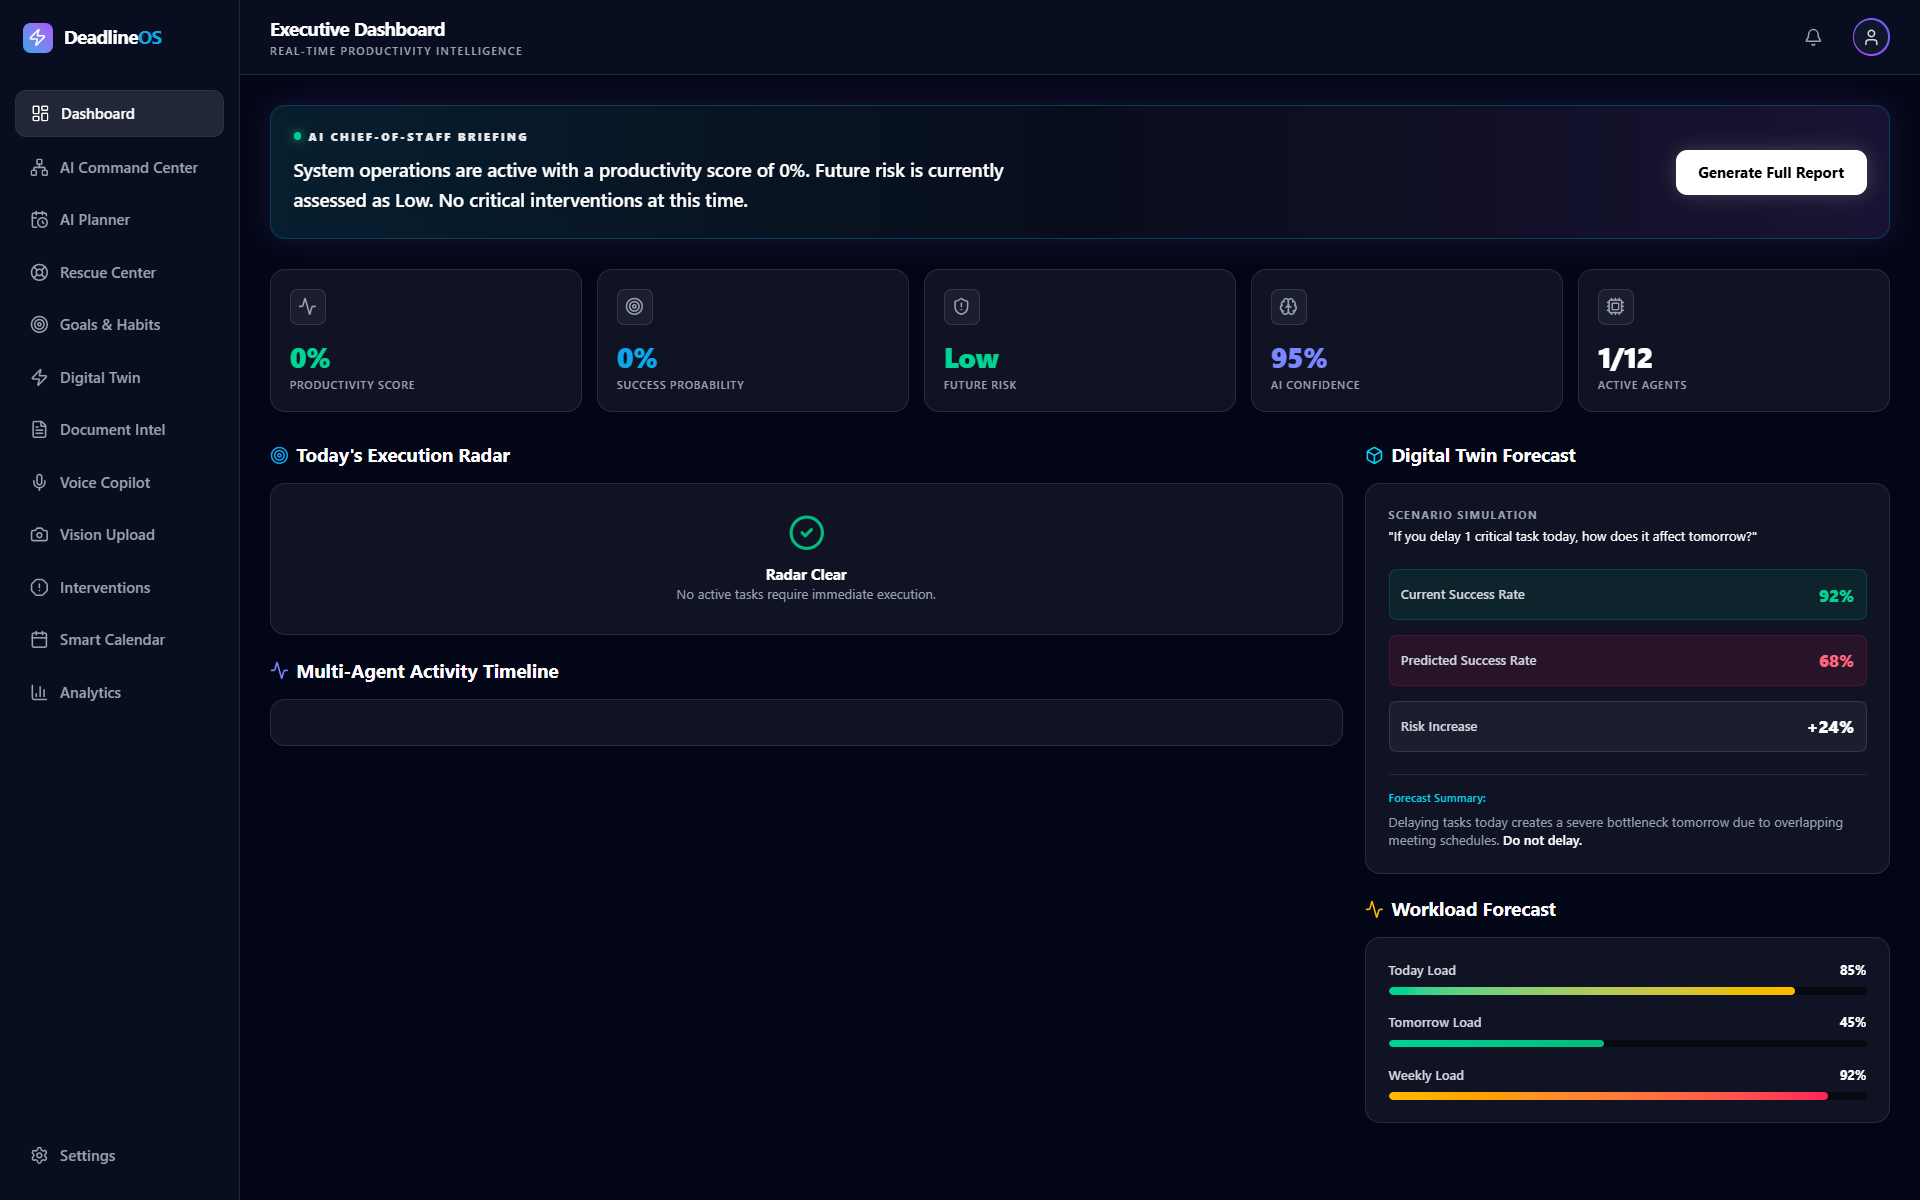
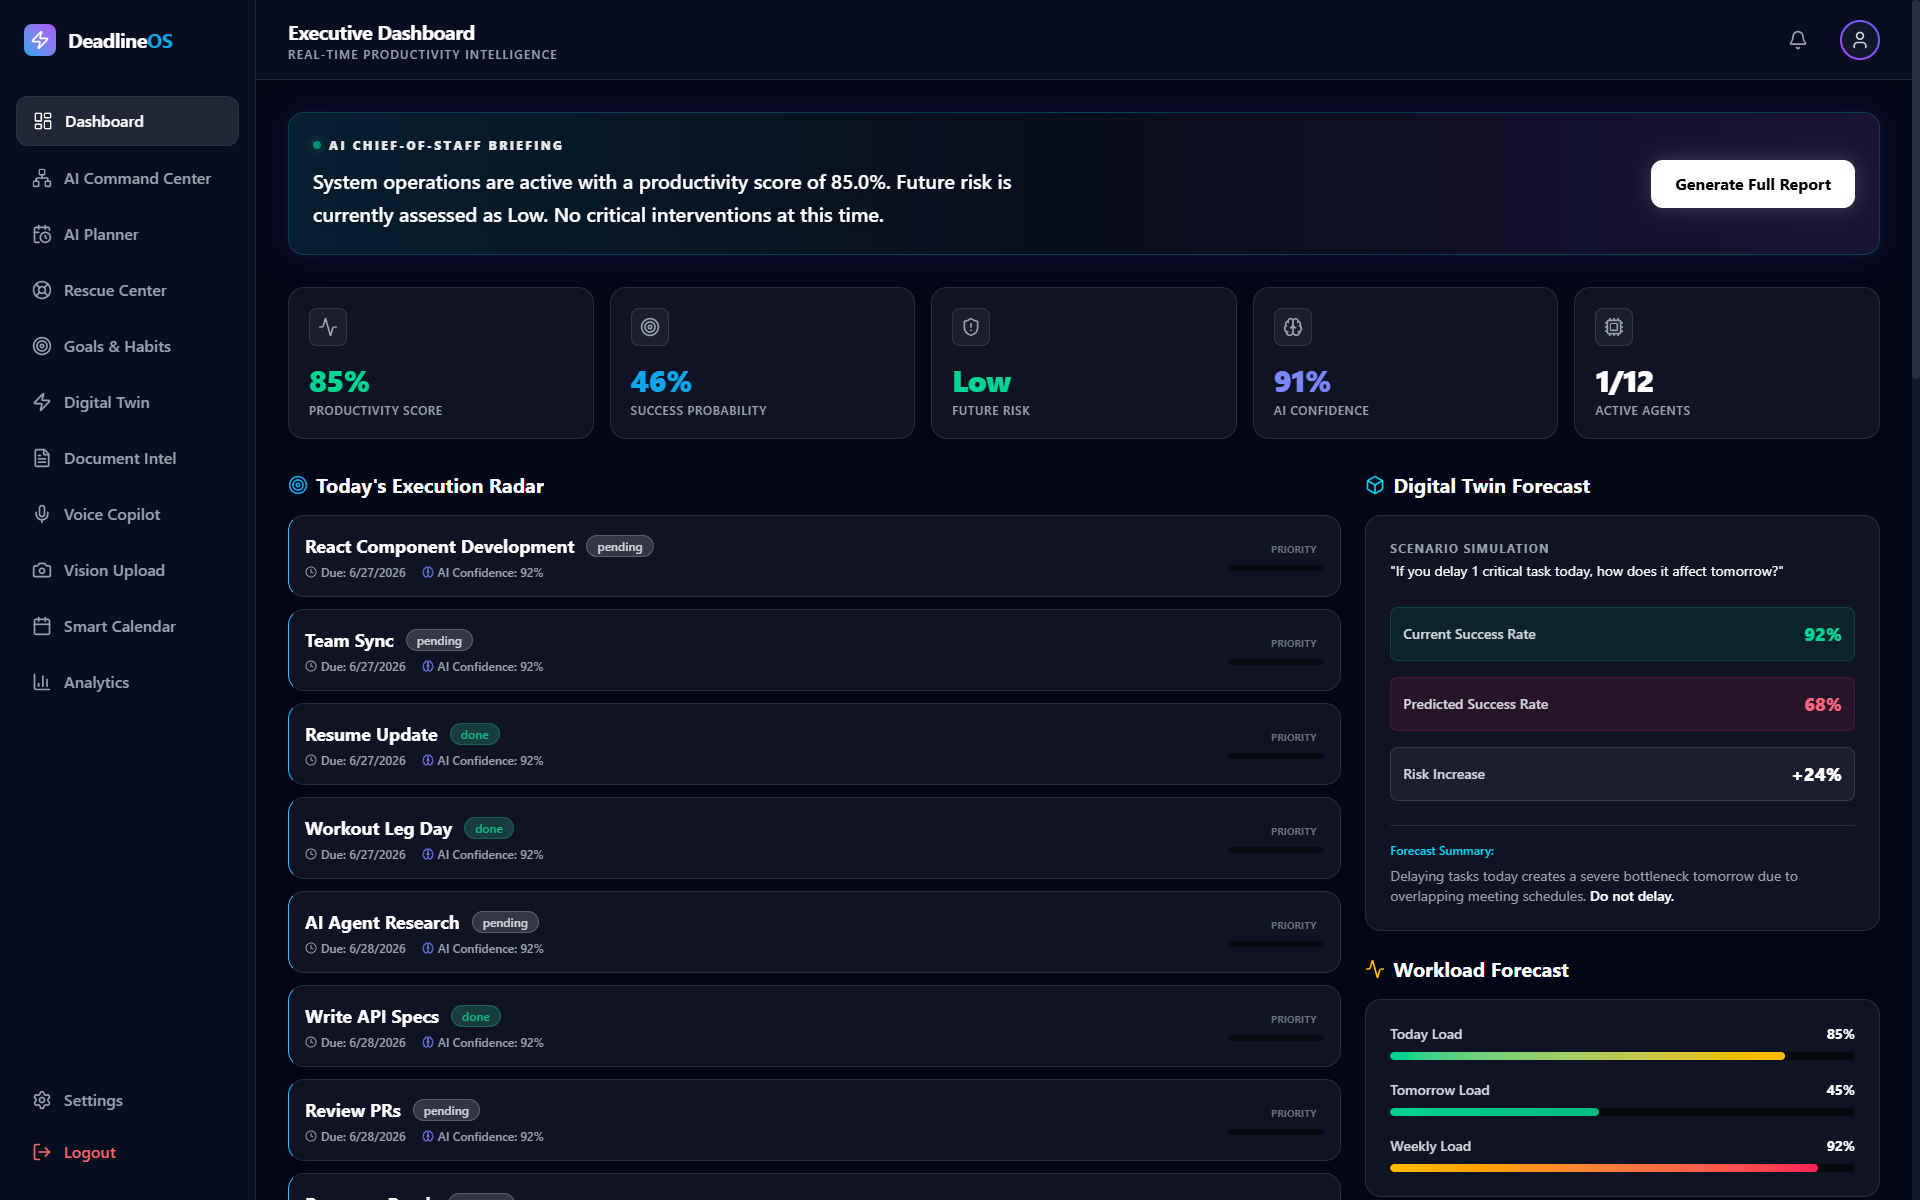
feat: add demo data seeder script and analytics service scaffolding

diff --git a/backend/services/analytics_service.py b/backend/services/analytics_service.py
@@ -54,7 +54,7 @@ class AnalyticsService:
         """Returns time-series data for area/line charts from DB."""
         from flask import g
         uid = user_id or getattr(g, "user_id", None)
-        metrics = AccountabilityMetrics.query.filter_by(user_id=uid).order_by(AccountabilityMetrics.created_at.desc()).limit(7).all()
+        metrics = AccountabilityMetrics.query.filter_by(user_id=uid).order_by(AccountabilityMetrics.created_at.desc()).limit(30).all()
         metrics.reverse()
         return [
             {
@@ -192,37 +192,104 @@ class AnalyticsService:
     @classmethod
     def get_insights(cls, user_id: str = None) -> Dict[str, Any]:
         """Returns telemetry-driven Insights Engine data."""
+        import logging
+        import traceback
         from flask import g
+        
+        logger = logging.getLogger(__name__)
         uid = user_id or getattr(g, "user_id", None)
-        latest_acc = AccountabilityMetrics.query.filter_by(user_id=uid).order_by(AccountabilityMetrics.created_at.desc()).first()
-        top_risk = "N/A"
-        top_opportunity = "N/A"
-        if latest_acc and latest_acc.key_findings:
-            findings = latest_acc.key_findings
-            top_risk = findings[0] if len(findings) > 0 else "N/A"
-            top_opportunity = findings[1] if len(findings) > 1 else "N/A"
+        
+        logger.info(f"[AnalyticsService] Starting get_insights for user_id={uid}")
+        
+        try:
+            logger.info(f"[AnalyticsService] Fetching AccountabilityMetrics for user_id={uid}")
+            latest_acc = AccountabilityMetrics.query.filter_by(user_id=uid).order_by(AccountabilityMetrics.created_at.desc()).first()
             
-        counts = db.session.query(
-            AgentExecutionLog.agent_name, 
-            func.count(AgentExecutionLog.id).label('total'),
-            func.avg(AgentExecutionLog.confidence).label('avg_conf')
-        ).filter_by(user_id=uid).group_by(AgentExecutionLog.agent_name).all()
-        
-        most_used_agent = max(counts, key=lambda x: x.total)[0] if counts else "N/A"
-        most_accurate_agent = max(counts, key=lambda x: x.avg_conf)[0] if counts else "N/A"
-        
-        interventions = Intervention.query.filter_by(user_id=uid, resolved=True).all()
-        least_effective = min(interventions, key=lambda x: x.confidence_score).type if interventions else "N/A"
-        
-        focus = "Review active interventions" if interventions else "Define new goals"
-        if latest_acc and latest_acc.recommendations:
-            focus = latest_acc.recommendations[0]
+            top_risk = "N/A"
+            top_opportunity = "N/A"
+            if latest_acc and latest_acc.key_findings and isinstance(latest_acc.key_findings, list):
+                findings = latest_acc.key_findings
+                top_risk = findings[0] if len(findings) > 0 else "N/A"
+                top_opportunity = findings[1] if len(findings) > 1 else "N/A"
             
-        return {
-            "top_risk": top_risk,
-            "top_opportunity": top_opportunity,
-            "most_used_agent": most_used_agent,
-            "most_accurate_agent": most_accurate_agent,
-            "least_effective_intervention": least_effective,
-            "recommended_focus_area": focus
-        }
+            logger.info(f"[AnalyticsService] Fetching AgentExecutionLog metrics for user_id={uid}")
+            counts = db.session.query(
+                AgentExecutionLog.agent_name, 
+                func.count(AgentExecutionLog.id).label('total'),
+                func.avg(AgentExecutionLog.confidence).label('avg_conf')
+            ).filter_by(user_id=uid).group_by(AgentExecutionLog.agent_name).all()
+            
+            most_used_agent = "N/A"
+            most_accurate_agent = "N/A"
+            
+            if counts:
+                # Safe aggregation avoiding None comparisons
+                most_used = max(counts, key=lambda x: x.total if x.total is not None else 0)
+                most_used_agent = most_used.agent_name if most_used.total else "N/A"
+                
+                most_accurate = max(counts, key=lambda x: x.avg_conf if x.avg_conf is not None else 0)
+                most_accurate_agent = most_accurate.agent_name if most_accurate.avg_conf else "N/A"
+            
+            logger.info(f"[AnalyticsService] Fetching Interventions for user_id={uid}")
+            interventions = Intervention.query.filter_by(user_id=uid, resolved=True).all()
+            least_effective = "N/A"
+            
+            if interventions:
+                # Filter out None scores before taking min
+                valid_interventions = [i for i in interventions if i.confidence_score is not None]
+                if valid_interventions:
+                    least_effective_intervention = min(valid_interventions, key=lambda x: x.confidence_score)
+                    least_effective = least_effective_intervention.type or "N/A"
+            
+            focus = "Review active interventions" if interventions else "Define new goals"
+            if latest_acc and latest_acc.recommendations and isinstance(latest_acc.recommendations, list):
+                if len(latest_acc.recommendations) > 0:
+                    focus = latest_acc.recommendations[0]
+                
+            response_data = {
+                "top_risk": top_risk,
+                "top_opportunity": top_opportunity,
+                "most_used_agent": most_used_agent,
+                "most_accurate_agent": most_accurate_agent,
+                "least_effective_intervention": least_effective,
+                "recommended_focus_area": focus,
+                
+                # Merging requested fallback schema to satisfy external client requirements
+                "productivity": [],
+                "completion_velocity": [],
+                "habit_consistency": [],
+                "intervention_metrics": {},
+                "agent_metrics": {},
+                "summary": {
+                    "productivity_score": latest_acc.productivity_score if latest_acc and latest_acc.productivity_score else 0,
+                    "success_probability": 0,
+                    "future_risk": "LOW"
+                }
+            }
+            
+            logger.info(f"[AnalyticsService] get_insights completed successfully for user_id={uid}")
+            return response_data
+            
+        except Exception as e:
+            logger.error(f"[AnalyticsService] Critical error in get_insights for user_id={uid}: {str(e)}")
+            logger.error(traceback.format_exc())
+            
+            # Return sensible defaults rather than throwing HTTP 500
+            return {
+                "top_risk": "N/A",
+                "top_opportunity": "N/A",
+                "most_used_agent": "N/A",
+                "most_accurate_agent": "N/A",
+                "least_effective_intervention": "N/A",
+                "recommended_focus_area": "Define new goals",
+                "productivity": [],
+                "completion_velocity": [],
+                "habit_consistency": [],
+                "intervention_metrics": {},
+                "agent_metrics": {},
+                "summary": {
+                    "productivity_score": 0,
+                    "success_probability": 0,
+                    "future_risk": "LOW"
+                }
+            }

diff --git a/backend/scripts/seed_demo.py b/backend/scripts/seed_demo.py
@@ -93,23 +93,15 @@ def seed_demo_data():
                 log_date = (now - timedelta(days=i)).strftime("%Y-%m-%d")
                 db.session.add(HabitLog(user_id=uid, habit_id=h.id, date=log_date, completed=True))
 
-        # 4. CALENDAR EVENTS (Tasks across week)
-        tasks_data = [
-            ("React Component Development", "pending", 2),
-            ("Team Sync", "pending", 1),
-            ("Resume Update", "done", 1),
-            ("Workout Leg Day", "done", 2),
-            ("AI Agent Research", "pending", 3),
-            ("Write API Specs", "done", 2),
-            ("Review PRs", "pending", 1),
-            ("Recovery Break", "pending", 1),
-            ("Draft Next Week Goals", "pending", 1),
-            ("Fix Production Bug", "done", 2)
-        ]
-        for i, (title, status, est) in enumerate(tasks_data):
-            deadline = now + timedelta(hours=i*4 - 24)
-            db.session.add(Task(user_id=uid, title=title, deadline=deadline, estimated_hours=est,
-                                category="Work", status=status, source="manual"))
+        # 4. CALENDAR EVENTS & TASKS (30 days historical)
+        for i in range(30):
+            day_offset = 30 - i
+            t_date = now - timedelta(days=day_offset)
+            db.session.add(Task(user_id=uid, title=f"Daily Sync Day {i}", deadline=t_date, estimated_hours=1.0,
+                                category="Work", status="done", source="manual"))
+            if i % 3 == 0:
+                db.session.add(Task(user_id=uid, title=f"Deep Work Sprint {i}", deadline=t_date, estimated_hours=3.0,
+                                    category="Project", status="done", source="manual"))
 
         # 5. DOCUMENT / VISION INTELLIGENCE TASKS
         db.session.add(Task(user_id=uid, title="Read Processed System Architecture PDF", deadline=now + timedelta(days=2),
@@ -118,11 +110,9 @@ def seed_demo_data():
                             estimated_hours=3.0, category="Work", status="pending", source="document", source_file="API_Specs.pdf"))
         db.session.add(Task(user_id=uid, title="Transcribe Whiteboard Brainstorming", deadline=now + timedelta(days=1),
                             estimated_hours=1.0, category="Project", status="pending", source="vision", source_file="whiteboard_session.jpg"))
-        db.session.add(Task(user_id=uid, title="Implement UI Mockup from Sketch", deadline=now + timedelta(days=2),
-                            estimated_hours=4.0, category="Work", status="done", source="vision", source_file="ui_sketch.png"))
 
-        # 6. PLANNER SESSIONS (Schedules)
-        for i in range(4):
+        # 6. PLANNER SESSIONS (30 days of schedules)
+        for i in range(30):
             target = (now - timedelta(days=i)).strftime("%Y-%m-%d")
             s = Schedule(user_id=uid, target_date=target, confidence_score=random.randint(70, 95),
                          sys_confidence=random.randint(75, 99), daily_summary=f"Optimized schedule for {target}",
@@ -132,37 +122,63 @@ def seed_demo_data():
             db.session.add(ScheduleSlot(user_id=uid, schedule_id=s.id, task_title="Morning Deep Work",
                                         start_time="09:00", end_time="11:00", focus_block=True))
 
-        # 7. RESCUE EVENTS
-        db.session.add(Intervention(user_id=uid, type="rescue", severity="High", trigger_source="Context Switch Overload",
-                                    message="Detected excessive context switching across projects. Suggesting a 15min break.",
-                                    recommended_action={"action": "break", "duration": 15}, resolved=True,
-                                    created_at=now - timedelta(days=1)))
-        db.session.add(Intervention(user_id=uid, type="rescue", severity="Critical", trigger_source="Deadline Approaching",
-                                    message="Major deadline in 2 days but 60% of milestone incomplete. Recommended rescheduling non-essentials.",
-                                    recommended_action={"action": "reschedule"}, resolved=True,
-                                    created_at=now - timedelta(days=3)))
+        # 7. RESCUE EVENTS (Historical Interventions)
+        for i in [28, 21, 14, 7, 2]:
+            db.session.add(Intervention(user_id=uid, type="rescue", severity="High", trigger_source="Context Switch Overload",
+                                        message="Detected excessive context switching. Suggested 15min break.",
+                                        recommended_action={"action": "break", "duration": 15}, resolved=True,
+                                        created_at=now - timedelta(days=i)))
 
-        # 8. DIGITAL TWIN SIMULATIONS
+        # 8. DIGITAL TWIN SIMULATIONS (15 over 30 days)
         sims = ["Delay task", "Increase deep work", "Miss one day", "Extend deadline", "Complete milestone early"]
-        for i, s in enumerate(sims):
+        for i in range(15):
+            s = random.choice(sims)
             db.session.add(TwinSimulationLog(user_id=uid, scenario_type=s,
                                              scenario_payload={"action": s},
                                              simulation_result={"outcome": f"Simulated outcome if you {s.lower()}."},
                                              capacity_impact=random.randint(-15, 20),
-                                             created_at=now - timedelta(days=i)))
+                                             created_at=now - timedelta(days=i * 2)))
 
-        # 9. ANALYTICS
-        db.session.add(AccountabilityMetrics(user_id=uid, completion_rate=78.5, consistency_score=82.0,
-                                             procrastination_score=15.0, productivity_score=85.0, risk_profile="Low",
-                                             key_findings={"insight": "Consistent habit execution has boosted daily throughput."}))
+        # 9. ANALYTICS (30-day realistic progressive trend)
+        base_completion = 48.0
+        base_consistency = 52.0
+        base_prod = 50.0
 
-        # 10. AI ACTIVITY TIMELINE & COMMAND CENTER (Agent Execution Logs)
+        for i in range(30):
+            day_offset = 30 - i
+            
+            # Trend upward with ±4% noise
+            comp = base_completion + (i * 1.5) + random.uniform(-4, 4)
+            cons = base_consistency + (i * 1.2) + random.uniform(-4, 4)
+            prod = base_prod + (i * 1.4) + random.uniform(-4, 4)
+            
+            # Bound values between 0 and 100
+            comp = min(100.0, max(0.0, comp))
+            cons = min(100.0, max(0.0, cons))
+            prod = min(100.0, max(0.0, prod))
+            
+            procrastination = max(5.0, 30.0 - (i * 0.8) + random.uniform(-3, 3))
+            
+            findings = ["Burnout Risk Elevated", "High Context Switching"] if i < 15 else ["Consistent Output", "Deep Work Optimized"]
+            
+            db.session.add(AccountabilityMetrics(
+                user_id=uid, 
+                completion_rate=comp, 
+                consistency_score=cons,
+                procrastination_score=procrastination, 
+                productivity_score=prod, 
+                risk_profile="Low" if i >= 15 else "High",
+                key_findings=findings,
+                created_at=now - timedelta(days=day_offset)
+            ))
+
+        # 10. AI ACTIVITY TIMELINE & COMMAND CENTER (Agent Execution Logs - 60 over 30 days)
         agents = ["Planning Agent", "Vision Agent", "Digital Twin Agent", "Rescue Agent", "Orchestrator"]
         actions = ["Generated optimal schedule", "Extracted text from image", "Forecasted schedule delay", "Detected high cognitive load", "Dispatched tasks successfully"]
-        for i in range(15):
+        for i in range(60):
             agent = random.choice(agents)
             action_desc = random.choice(actions)
-            t = now - timedelta(hours=i*3)
+            t = now - timedelta(hours=i * 12)
             db.session.add(AgentExecutionLog(user_id=uid, agent_name=agent, action=action_desc,
                                              execution_time_ms=random.randint(800, 2500), confidence=random.randint(85, 99),
                                              status="success", created_at=t))